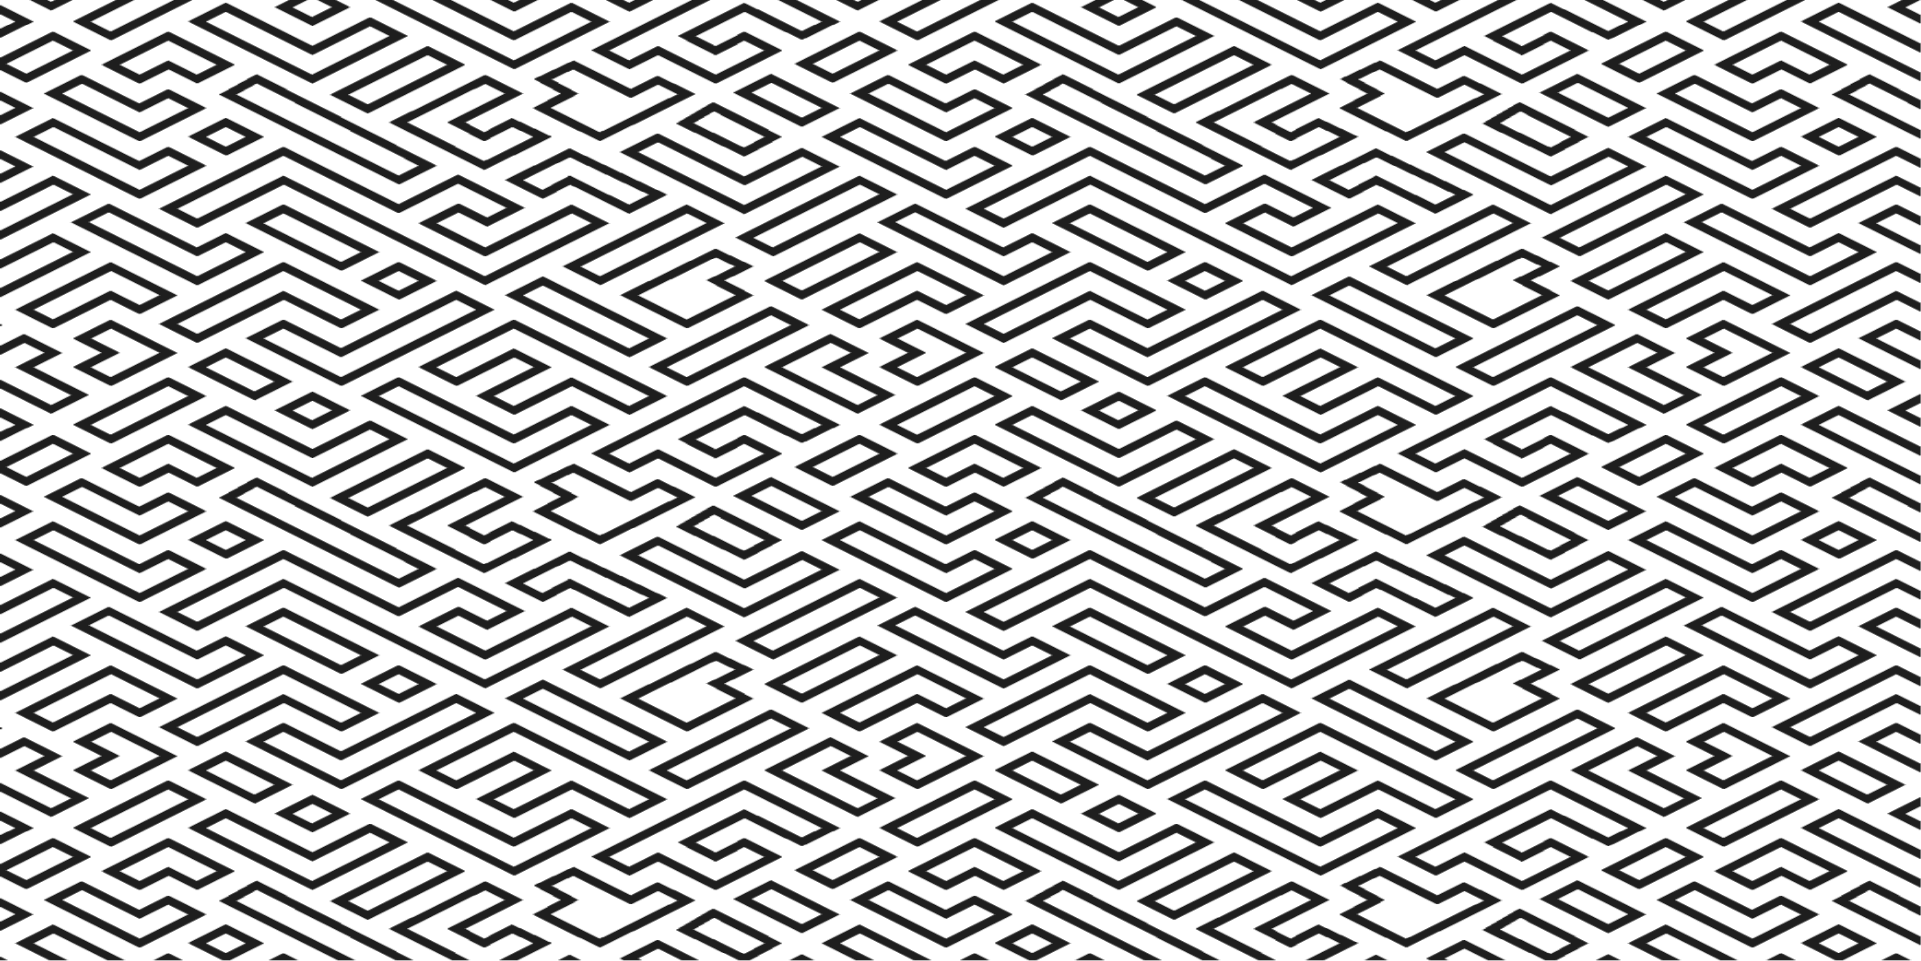
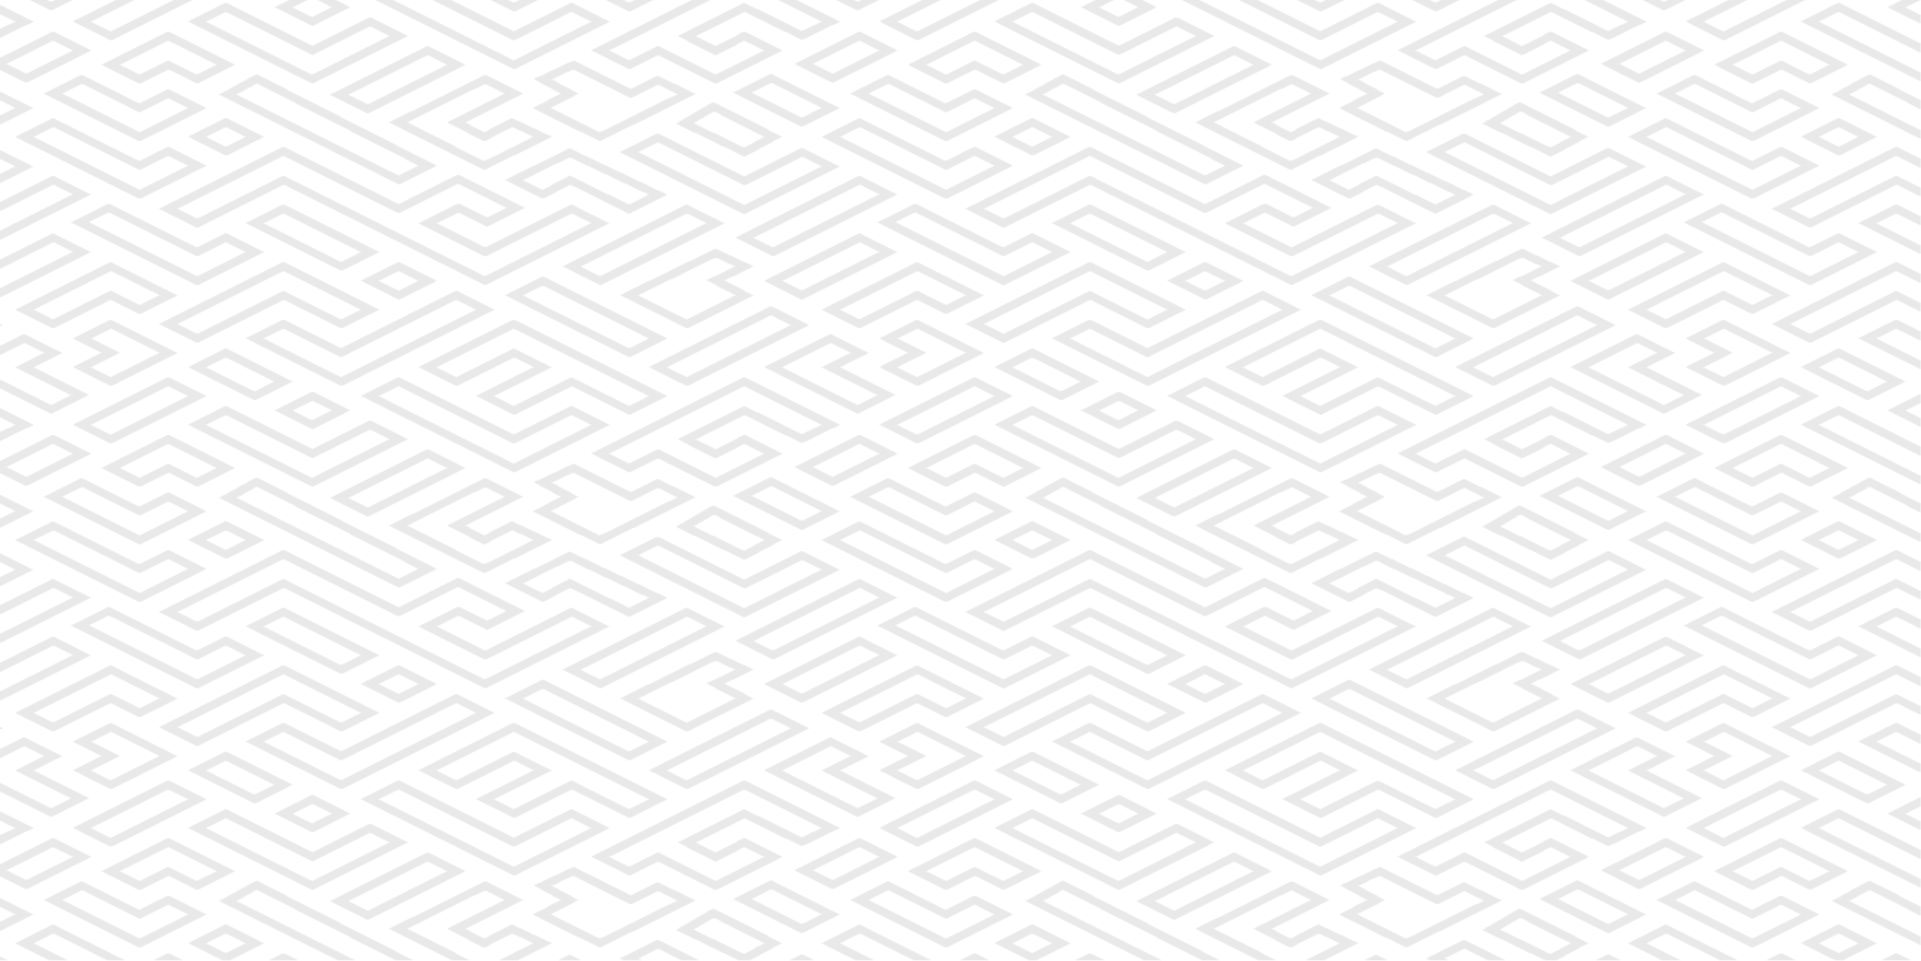
add styles for footer services

diff --git a/index.html b/index.html
@@ -472,11 +472,36 @@
     <div class="footer__services">
       <h4 class="footer__services__title">Services.</h4>
       <div class="footer__services__options">
-        <p class="footer__services__options__opt">+ Restaurant & Bar</p>
-        <p class="footer__services__options__opt">+ Restaurant & Bar</p>
-        <p class="footer__services__options__opt">+ Restaurant & Bar</p>
-        <p class="footer__services__options__opt">+ Restaurant & Bar</p>
-        <p class="footer__services__options__opt">+ Restaurant & Bar</p>
+        <div class="footer__services__options__box">
+          <p class="footer__services__options__title">+ Restaurant & Bar</p>
+        </div>
+        <div class="footer__services__options__box">
+          <p class="footer__services__options__title">+ Gaming Zone</p>
+        </div>
+        <div class="footer__services__options__box">
+          <p class="footer__services__options__title">+ Swimming Pool</p>
+        </div>
+        <div class="footer__services__options__box">
+          <p class="footer__services__options__title">+ Marrige Party</p>
+        </div>
+        <div class="footer__services__options__box">
+          <p class="footer__services__options__title">+ Wellness & Spa</p>
+        </div>
+        <div class="footer__services__options__box">
+          <p class="footer__services__options__title">+ Party Planning</p>
+        </div>
+        <div class="footer__services__options__box">
+          <p class="footer__services__options__title">+ Restaurant</p>
+        </div>
+        <div class="footer__services__options__box">
+          <p class="footer__services__options__title">+ Tour Consultancy</p>
+        </div>
+        <div class="footer__services__options__box">
+          <p class="footer__services__options__title">+ Conference Room</p>
+        </div>
+        <div class="footer__services__options__box">
+          <p class="footer__services__options__title">+ Coctail Party House</p>
+        </div>
       </div>
     </div>
   </footer>

diff --git a/css/styles.css b/css/styles.css
@@ -938,7 +938,7 @@
   width: 100%;
   height: 100%;
   background: url(../resources/img/footer-bg.png);
-  opacity: 0.005;
+  opacity: 0.04;
   z-index: -1;
 }
 .footer__main {
@@ -1001,6 +1001,25 @@
 .footer__icon-bar__icon:hover svg {
   fill: white;
 }
+.footer__services__title {
+  font-weight: 400;
+  font-size: 24px;
+  color: #222222;
+  margin-bottom: 14px;
+}
+.footer__services__options {
+  display: flex;
+  flex-wrap: wrap;
+}
+.footer__services__options__title {
+  font-family: "Roboto", sans-serif;
+  color: #777;
+}
+.footer__services__options__box {
+  min-width: 50%;
+  margin-bottom: 24px;
+}
+
 * {
   margin: 0;
   padding: 0;

diff --git a/resources/sass/layout/_footer.scss b/resources/sass/layout/_footer.scss
@@ -12,7 +12,7 @@
     width: 100%;
     height: 100%;
     background: url(../resources/img/footer-bg.png);
-    opacity: 0.005;
+    opacity: .04;
     z-index: -1;
   }
   
@@ -87,5 +87,26 @@
 
   &__services {
 
+    &__title {
+      font-weight: 400;
+      font-size: 24px;
+      color: $color-dark;
+      margin-bottom: 14px;
+    }
+
+    &__options {
+      display: flex;
+      flex-wrap: wrap;
+
+      &__title {
+        font-family: 'Roboto', sans-serif;
+        color: #777;
+      }
+
+      &__box {
+        min-width: 50%;
+        margin-bottom: 24px;
+      }
+    }
   }
 }
